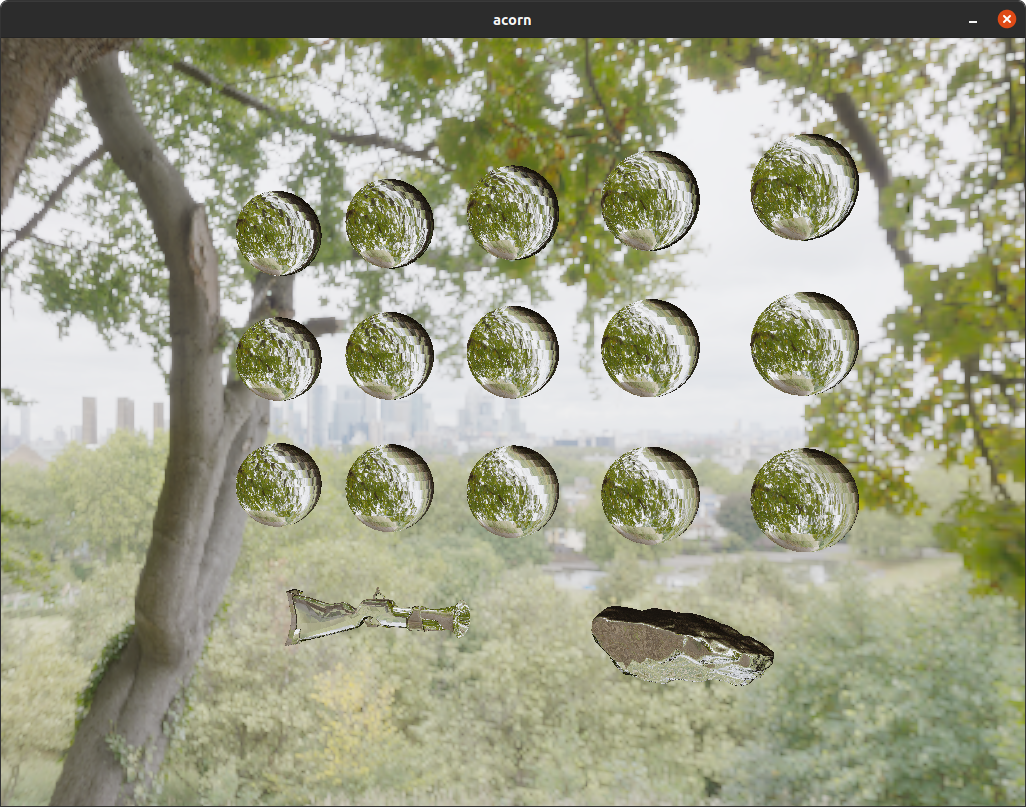
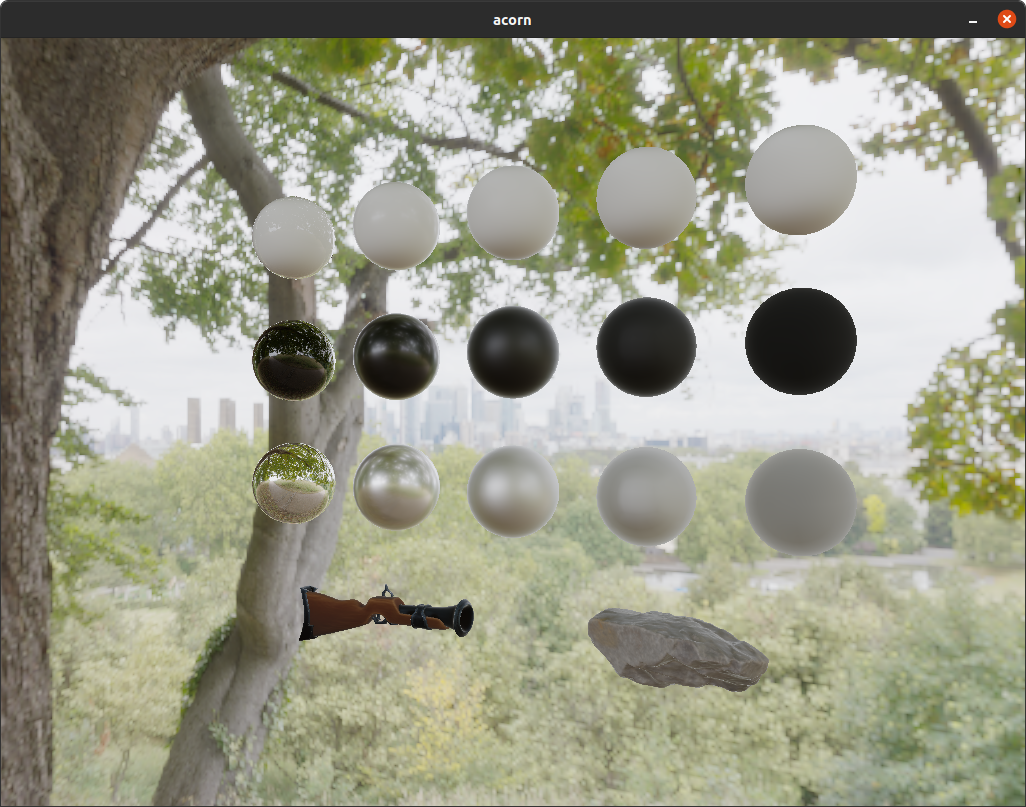
Add textures to resource manager

diff --git a/src/model.cpp b/src/model.cpp
@@ -241,10 +241,46 @@ void Model::init(const std::string &path) {
 
     // Set materials
     for (u32 i = 0; i < numMeshes; ++i) {
-        meshes[i].material.metallic_scale = materials[i].metallic;
-        meshes[i].material.roughness_scale = materials[i].roughness;
+        // Diffuse texture
+        if (!materials[i].diffuse_texname.empty()) {
+            meshes[i].material.albedo_texture = core->resourceManager.getTexture(
+                    dir + "/" + materials[i].diffuse_texname)->id;
+        } else {
+            meshes[i].material.albedo_texture = core->resourceManager.getBuiltInTexture(
+                    BuiltInTextureEnum::MISSING)->id;
+        }
 
-        // TODO: textures
+        // Normal texture
+        if (!materials[i].normal_texname.empty()) {
+            meshes[i].material.normal_texture = core->resourceManager.getTexture(
+                    dir + "/" + materials[i].normal_texname)->id;
+        } else if (!materials[i].bump_texname.empty()) {
+            meshes[i].material.normal_texture = core->resourceManager.getTexture(
+                    dir + "/" + materials[i].bump_texname)->id;
+        } {
+            meshes[i].material.normal_texture = core->resourceManager.getBuiltInTexture(
+                    BuiltInTextureEnum::NORMAL)->id;
+        }
+
+        // Metallic texture
+        if (!materials[i].metallic_texname.empty()) {
+            meshes[i].material.metallic_texture = core->resourceManager.getTexture(
+                    dir + "/" + materials[i].metallic_texname)->id;
+        } else {
+            meshes[i].material.metallic_texture = core->resourceManager.getBuiltInTexture(
+                    BuiltInTextureEnum::WHITE)->id;
+        }
+        meshes[i].material.metallic_scale = materials[i].metallic;
+
+        // Roughness texture
+        if (!materials[i].roughness_texname.empty()) {
+            meshes[i].material.roughness_texture = core->resourceManager.getTexture(
+                    dir + "/" + materials[i].roughness_texname)->id;
+        } else {
+            meshes[i].material.roughness_texture = core->resourceManager.getBuiltInTexture(
+                    BuiltInTextureEnum::WHITE)->id;
+        }
+        meshes[i].material.roughness_scale = materials[i].roughness;
     }
 
     for (auto &shape : shapes) {
@@ -267,20 +303,18 @@ void Model::init(const std::string &path) {
                 vertices.emplace_back();
 
                 // set position
-                vertices.back().position = glm::vec4(
+                vertices.back().position = glm::vec3(
                         attrib.vertices[3 * idx.vertex_index + 0],
                         attrib.vertices[3 * idx.vertex_index + 1],
-                        attrib.vertices[3 * idx.vertex_index + 2],
-                        0
+                        attrib.vertices[3 * idx.vertex_index + 2]
                 );
 
                 // set normal
                 if (hasNormals) {
-                    vertices.back().normal = glm::vec4(
+                    vertices.back().normal = glm::vec3(
                             attrib.normals[3 * idx.normal_index + 0],
                             attrib.normals[3 * idx.normal_index + 1],
-                            attrib.normals[3 * idx.normal_index + 2],
-                            0
+                            attrib.normals[3 * idx.normal_index + 2]
                     );
                 }
 
@@ -302,7 +336,7 @@ void Model::init(const std::string &path) {
                 glm::vec3 u = v2.position - v1.position;
                 glm::vec3 v = v3.position - v1.position;
 
-                glm::vec4 normal = glm::vec4(glm::cross(u, v), 0);
+                glm::vec3 normal = glm::vec3(glm::cross(u, v));
 
                 v1.normal = normal;
                 v2.normal = normal;
@@ -332,8 +366,14 @@ void Model::init(const std::string &path) {
         }
     }
 
-    for (auto &mesh : meshes) {
-        mesh.init();
+    for (u32 i = 0; i < meshes.size();) {
+        // Remove meshes with no vertices
+        if (meshes[i].vertices.empty()) {
+            meshes.erase(meshes.begin() + i);
+        } else {
+            meshes[i].init();
+            ++i;
+        }
     }
 }
 

diff --git a/src/resource_manager.cpp b/src/resource_manager.cpp
@@ -1,8 +1,28 @@
 #include "resource_manager.h"
 #include "core.h"
+#include <stb_image.h>
 
 void ResourceManager::init() {
-//    stbi_set_flip_vertically_on_load(1);
+    stbi_set_flip_vertically_on_load(1);
+
+    u8 black[4] = {0, 0, 0, 255};
+    m_textureBlack = new Texture();
+    m_textureBlack->init(GL_RGBA, 1, 1, GL_UNSIGNED_BYTE, black, GL_RGBA);
+
+    u8 white[4] = {0, 0, 0, 255};
+    m_textureWhite = new Texture();
+    m_textureWhite->init(GL_RGBA, 1, 1, GL_UNSIGNED_BYTE, white, GL_RGBA);
+
+    u8 normal[4] = {127, 127, 255, 255};
+    m_textureNormal = new Texture();
+    m_textureNormal->init(GL_RGBA, 1, 1, GL_UNSIGNED_BYTE, normal, GL_RGBA);
+
+    u8 missing[4 * 4] = {255, 0, 255, 255,
+                         0, 0, 0, 255,
+                         255, 0, 255, 255,
+                         0, 0, 0, 255};
+    m_textureMissing = new Texture();
+    m_textureMissing->init(GL_RGBA, 2, 2, GL_UNSIGNED_BYTE, missing, GL_RGBA);
 }
 
 void ResourceManager::destroy() {
@@ -11,14 +31,23 @@ void ResourceManager::destroy() {
         delete model.second;
     }
 
-//    for (auto &texture : m_textures) {
-//        texture.second.destroy();
-//    }
+    for (auto &texture : m_textures) {
+        texture.second->destroy();
+        delete texture.second;
+    }
+
+    // TODO: I don't like the new, init, destroy, delete cycle - maybe move to constructors that fail for most things?
+    m_textureBlack->destroy();
+    delete m_textureBlack;
+    m_textureWhite->destroy();
+    delete m_textureWhite;
+    m_textureNormal->destroy();
+    delete m_textureNormal;
+    m_textureMissing->destroy();
+    delete m_textureMissing;
 }
 
 Model *ResourceManager::getModel(const std::string &path) {
-    // TODO: I don't like the new, init, destroy, delete cycle - maybe move to constructors that fail for most things?
-
     // See if model is already loaded
     auto it = m_models.find(path);
     if (it != m_models.end()) {
@@ -30,4 +59,33 @@ Model *ResourceManager::getModel(const std::string &path) {
     model->init(path);
     m_models.emplace(path, model);
     return model;
+}
+
+Texture *ResourceManager::getTexture(const std::string &path) {
+    // See if texture is already loaded
+    auto it = m_textures.find(path);
+    if (it != m_textures.end()) {
+        return it->second;
+    }
+
+    // Try to load texture
+    Texture *texture = new Texture();
+    texture->init(path);
+    m_textures.emplace(path, texture);
+    return texture;
+}
+
+Texture *ResourceManager::getBuiltInTexture(BuiltInTextureEnum default_tex) {
+    switch (default_tex) {
+        case BuiltInTextureEnum::BLACK:
+            return m_textureBlack;
+        case BuiltInTextureEnum::WHITE:
+            return m_textureWhite;
+        case BuiltInTextureEnum::NORMAL:
+            return m_textureNormal;
+        default:
+            core->warn("Unhandled case for getting a built in texture: " + std::to_string(static_cast<int>(default_tex)));
+        case BuiltInTextureEnum::MISSING:
+            return m_textureMissing;
+    }
 }

diff --git a/src/texture.cpp b/src/texture.cpp
@@ -1,9 +1,11 @@
 #include "texture.h"
+#include "core.h"
 
 #include <GL/gl3w.h>
 #include <unordered_map>
 
 #define STB_IMAGE_IMPLEMENTATION
+#define STBI_FAILURE_USERMSG
 
 #include <stb_image.h>
 
@@ -12,6 +14,44 @@ static u32 texture_black = 0;
 static u32 texture_white = 0;
 static u32 texture_missing = 0;
 static u32 texture_normal = 0;
+
+void Texture::init(const std::string &path) {
+    // TODO: read from some sort of asset metadata file
+    // would contain: data format (RGBA, etc.), texture format (2d, cubemap, etc.), is hdr, etc.
+
+    // load image data from file
+    s32 width, height, channels;
+    u8 *data = stbi_load(path.c_str(), &width, &height, &channels, 4);
+    if (!data) {
+        core->fatal("Failed to load image '" + path + "'\n" + stbi_failure_reason());
+    }
+
+    // init w/ data
+    init(GL_RGBA, width, height, GL_UNSIGNED_BYTE, data, GL_RGBA);
+
+    // free image data
+    stbi_image_free(data);
+}
+
+void Texture::init(GLenum texture_format, s32 width, s32 height, GLenum data_type, u8 *data, GLenum data_format) {
+    s32 previously_bound;
+    glGetIntegerv(GL_TEXTURE_BINDING_2D, &previously_bound);
+
+    glGenTextures(1, &id);
+    glBindTexture(GL_TEXTURE_2D, id);
+    glTexImage2D(GL_TEXTURE_2D, 0, texture_format, width, height, 0, data_format, data_type, data);
+    glTexParameteri(GL_TEXTURE_2D, GL_TEXTURE_WRAP_S, GL_CLAMP_TO_EDGE);
+    glTexParameteri(GL_TEXTURE_2D, GL_TEXTURE_WRAP_T, GL_CLAMP_TO_EDGE);
+    glTexParameteri(GL_TEXTURE_2D, GL_TEXTURE_MIN_FILTER, GL_LINEAR_MIPMAP_LINEAR);
+    glTexParameteri(GL_TEXTURE_2D, GL_TEXTURE_MAG_FILTER, GL_LINEAR);
+    glGenerateMipmap(GL_TEXTURE_2D);
+
+    glBindTexture(GL_TEXTURE_2D, previously_bound);
+}
+
+void Texture::destroy() {
+    glDeleteTextures(1, &id);
+}
 
 u32 texture_2d_create(GLenum texture_format, s32 width, s32 height, GLenum data_type, u8 *data, GLenum data_format) {
     s32 previously_bound;

diff --git a/src/core.cpp b/src/core.cpp
@@ -24,9 +24,9 @@ void Core::run() {
                 game_state.camera.look_at = glm::vec3(0, 0, 0);
             }
 
-            Model *spheres = m_resourceManager.getModel("../assets/spheres/spheres.obj");
-            Model *rifle = m_resourceManager.getModel("../assets/stylized-rifle/Stylized_rifle_final.obj");
-            Model *rock = m_resourceManager.getModel("../assets/rock03/3DRock003_16K.obj");
+            Model *spheres = resourceManager.getModel("../assets/spheres/spheres.obj");
+            Model *rifle = resourceManager.getModel("../assets/stylized-rifle/Stylized_rifle_final.obj");
+            Model *rock = resourceManager.getModel("../assets/rock03/3DRock003_16K.obj");
 
             m_renderer.queueRenderable(Renderable{
                     Transform{
@@ -102,7 +102,7 @@ void Core::init() {
 
     m_platform.init();
     m_renderer.init();
-    m_resourceManager.init();
+    resourceManager.init();
     if (!textures_init()) core->fatal("Failed to init textures");
 //    if (!debug_gui_init()) return false;
 
@@ -114,7 +114,7 @@ void Core::init() {
 void Core::cleanup() {
 //    debug_gui_shutdown();
     textures_shutdown();
-    m_resourceManager.destroy();
+    resourceManager.destroy();
     m_renderer.destroy();
     m_platform.destroy();
 }

diff --git a/src/resource_manager.h b/src/resource_manager.h
@@ -3,7 +3,6 @@
 
 #include "types.h"
 #include "model.h"
-//#include "mesh.h"
 #include "texture.h"
 #include <unordered_map>
 #include <string>
@@ -14,13 +13,22 @@ public:
 
     void destroy();
 
+    /// Get a model and if not loaded, load
     Model *getModel(const std::string &path);
 
-    //    void loadTextureFromPNG(const char *texture_path, TextureTypeEnum type);
+    /// Get a texture and if not loaded, load
+    Texture *getTexture(const std::string &path);
+
+    /// Get a built in texture
+    Texture *getBuiltInTexture(BuiltInTextureEnum default_tex);
 
 private:
     std::unordered_map<std::string, Model *> m_models;
-//    std::unordered_map<std::string, Texture*> m_textures;
+    std::unordered_map<std::string, Texture *> m_textures;
+    Texture *m_textureBlack;   // (0, 0, 0)
+    Texture *m_textureWhite;   // (255, 255, 255)
+    Texture *m_textureNormal;  // (127, 127, 255)
+    Texture *m_textureMissing; // (0, 0, 0) (255, 0, 255) pattern
 };
 
 #endif //ACORN_RESOURCE_MANAGER_H

diff --git a/src/texture.h b/src/texture.h
@@ -3,12 +3,27 @@
 
 #include "types.h"
 #include <GL/gl3w.h>
+#include <string>
 
 enum class BuiltInTextureEnum {
     MISSING, BLACK, WHITE, NORMAL
 };
 
-// TODO: fixup texture creation
+class Texture {
+public:
+    /// Init a texture from a file
+    void init(const std::string &path);
+
+    /// Init a 2D texture with data
+    void init(GLenum texture_format, s32 width, s32 height, GLenum data_type, u8 *data, GLenum data_format);
+
+    /// Clean up
+    void destroy();
+
+    u32 id;
+};
+
+// TODO: finish restyling texture stuff
 
 u32 texture_2d_create(GLenum texture_format, s32 width, s32 height, GLenum data_type, u8 *data, GLenum data_format);
 

diff --git a/src/core.h b/src/core.h
@@ -25,6 +25,7 @@ public:
     [[noreturn]] void fatal(const std::string &msg);
 
     GameState game_state;
+    ResourceManager resourceManager;
 
 private:
     void init();
@@ -33,7 +34,6 @@ private:
 
     Platform m_platform;
     Renderer m_renderer;
-    ResourceManager m_resourceManager;
 };
 
 extern Core *core;

diff --git a/src/model.h b/src/model.h
@@ -5,7 +5,8 @@
 #include <string>
 #include <vector>
 
-struct Model {
+class Model {
+public:
     void init(const std::string &path);
 
     void destroy();
